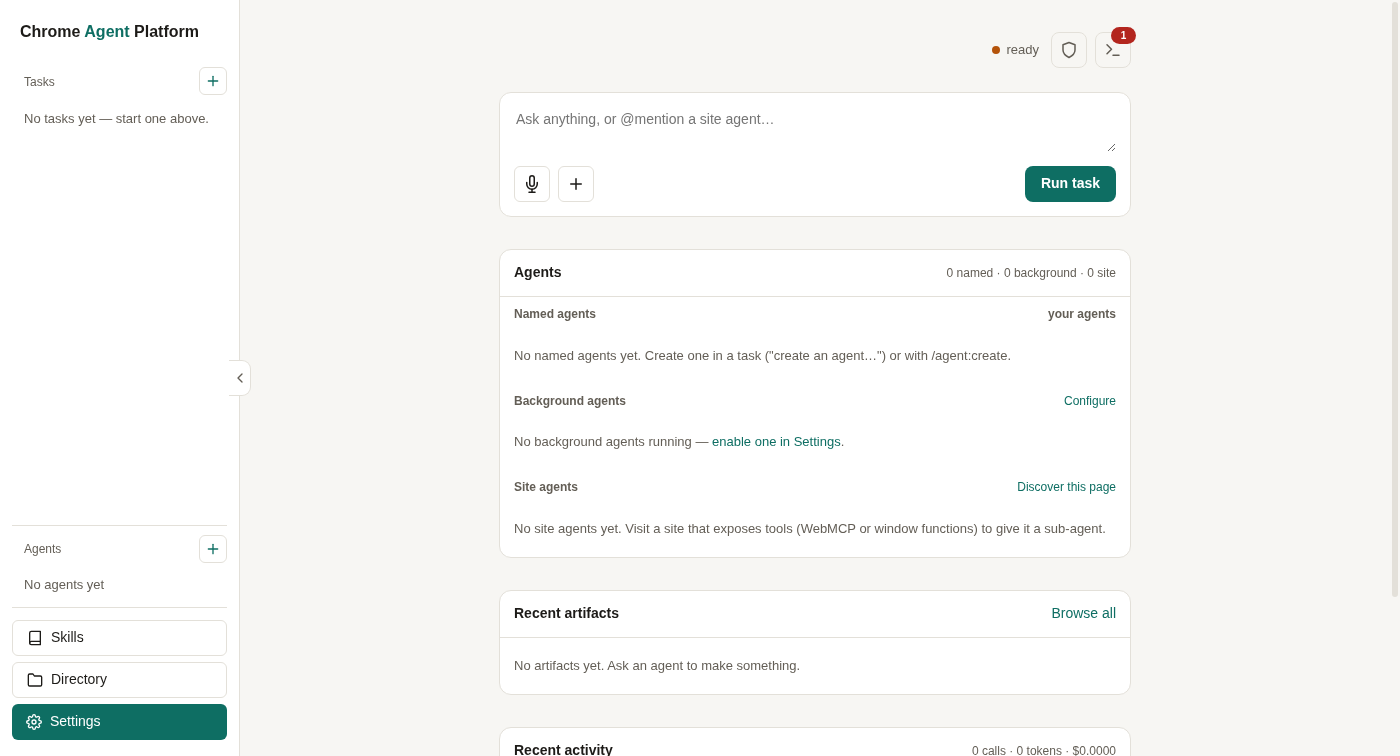
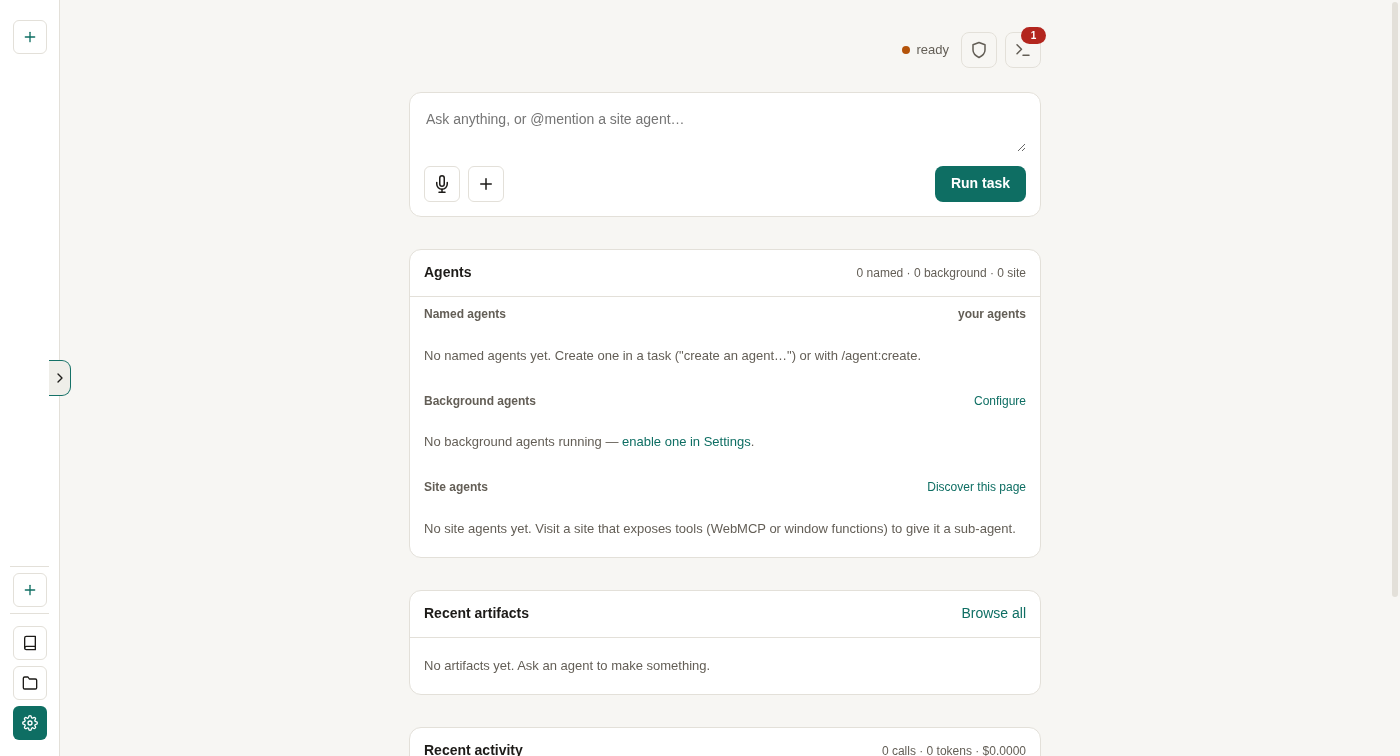
fix(sidebar): resolve third review — durability contract, real overlay, evidence, matrix
Third-review blockers resolved:
1. Persistence: kvSet now returns "durable" vs "session"; the kv.set route
   reports it as {ok:true,mode}; the NTP serializes writes in a queue, tracks
   durability, exposes it as data-durability on the rail, and exposes
   window.__sidebarPersistence().flush() so the reload test awaits the final
   write before reloading.
2. Durability is classified (durable/session/error) and the sidebar write is
   awaitable + ordered (a rapid toggle's last write lands).
3. Overlay test samples the 44×44 nub via elementFromPoint + a real pointer
   click with the overlay open (the nub is now a sibling of #side, so its
   z-index competes in the root stacking context).
4. Rapid toggle awaits the actual ViewTransition.finished (exposed via
   window.__lastViewTransition), not just a sleep + width.
5. Evidence: screenshots are correctly named (collapsed=60px rail border at
   x≈59, expanded=240px border at x≈239) with regenerated sha256 hashes; the
   evidence manifest records the hashes + verified list.
6. Matrix: RTL border swap asserted; dark-theme computed values read BEFORE
   resetting the theme; Enter focus asserted; narrow/reduced-motion retained.
7. aria-controls="side" added to the sibling nub.
8. Tracker corrected to 36 checks + durable-vs-session wording.

Gates: npm test 321/321, test:components 34/34, test:ui 36/36, git diff --check clean.

diff --git a/scripts/ui-integration.ts b/scripts/ui-integration.ts
@@ -211,7 +211,10 @@ try {
   await sleep(500);
   const ptrAfter = await cdp.eval(hub, `(() => { document.getElementById('thread-view').hidden = true; return document.querySelector('#side').classList.contains('collapsed'); })()`);
   check("pointer click on the nub toggles the sidebar with the thread overlay open", ptrAfter !== ptrBefore, { ptrBefore, ptrAfter });
-  // Commit-specific evidence: capture the collapsed rail + nub.
+  // Collapsed evidence (force the collapsed state first — the pointer click
+  // above may have toggled it).
+  await cdp.eval(hub, `(() => { const side = document.querySelector('#side'); if (!side.classList.contains('collapsed')) document.querySelector('#side-toggle').click(); })()`);
+  await sleep(400);
   const shotCollapsed = await cdp.send("Page.captureScreenshot", { format: "png", fromSurface: true }, hub);
   await Deno.writeFile(`${ROOT}test-artifacts/sidebar-collapsed.png`, Uint8Array.from(atob(shotCollapsed.data), (c: number) => c.charCodeAt(0)));
 
@@ -224,6 +227,10 @@ try {
   const keyAfter = await cdp.eval(hub, `(() => { const t = document.querySelector('#side-toggle'); const side = document.querySelector('#side'); return { expanded: t.getAttribute('aria-expanded'), collapsed: side.classList.contains('collapsed'), label: t.getAttribute('aria-label'), title: t.title }; })()`);
   check("Enter toggles the sidebar (collapsed ↔ expanded)", keyBefore && keyAfter && keyBefore.collapsed !== keyAfter.collapsed, { keyBefore, keyAfter });
   check("aria-expanded + label + title track the state", keyAfter && keyAfter.expanded === String(!keyAfter.collapsed) && keyAfter.label === (keyAfter.collapsed ? "Expand sidebar" : "Collapse sidebar") && keyAfter.title === keyAfter.label, keyAfter);
+  check("Enter activation focuses the nub first", keyBefore?.focused === true, keyBefore);
+  // Expanded evidence (force the expanded state first — Enter above toggled it).
+  await cdp.eval(hub, `(() => { const side = document.querySelector('#side'); if (side.classList.contains('collapsed')) document.querySelector('#side-toggle').click(); })()`);
+  await sleep(400);
   const shotExpanded = await cdp.send("Page.captureScreenshot", { format: "png", fromSurface: true }, hub);
   await Deno.writeFile(`${ROOT}test-artifacts/sidebar-expanded.png`, Uint8Array.from(atob(shotExpanded.data), (c: number) => c.charCodeAt(0)));
 
@@ -236,13 +243,16 @@ try {
   const spaceAfter = await cdp.eval(hub, `document.querySelector('#side').classList.contains('collapsed')`);
   check("Space toggles the sidebar", spaceAfter !== spaceBefore, { spaceBefore, spaceAfter });
 
-  // 2e. The collapsed state persists across a reload (collapse first, then reload).
+  // 2e. The collapsed state persists across a reload (collapse first, then
+  //     AWAIT the serialized write flush before reloading).
   await cdp.eval(hub, `(() => { const side = document.querySelector('#side'); if (!side.classList.contains('collapsed')) document.querySelector('#side-toggle').click(); })()`);
-  await sleep(500);
+  await cdp.eval(hub, `window.__sidebarPersistence?.().flush() ?? Promise.resolve()`);
+  await sleep(300);
   await cdp.send("Page.reload", {}, hub);
   await sleep(1500);
-  const afterReload = await cdp.eval(hub, `(() => { const side = document.querySelector('#side'); return { collapsed: side?.classList.contains('collapsed') ?? false, width: side ? Math.round(side.getBoundingClientRect().width) : 0 }; })()`);
+  const afterReload = await cdp.eval(hub, `(() => { const side = document.querySelector('#side'); return { collapsed: side?.classList.contains('collapsed') ?? false, width: side ? Math.round(side.getBoundingClientRect().width) : 0, durability: side?.getAttribute('data-durability') ?? 'unknown' }; })()`);
   check("collapsed state persists across reload", afterReload?.collapsed === true && afterReload?.width === 60, afterReload);
+  check("durability state is exposed on the rail", afterReload && ['durable', 'session', 'error', 'unknown'].includes(afterReload.durability), afterReload);
   // restore to expanded for the rest of the suite
   await cdp.eval(hub, `(() => { const t = document.querySelector('#side-toggle'); if (document.querySelector('#side')?.classList.contains('collapsed')) t?.click(); })()`);
   await sleep(500);
@@ -259,15 +269,33 @@ try {
     return { sideLeft: Math.round(sideR.left), sideRight: Math.round(sideR.right), nubCx: cx, vw: innerWidth };
   })()`);
   check("RTL nub centres on the rail's inner (left) boundary", rtlGeom && Math.abs(rtlGeom.nubCx - rtlGeom.sideLeft) <= 3, rtlGeom);
+  // RTL also swaps the rail's hairline border to the inner (left) edge.
+  const rtlBorder = await cdp.eval(hub, `(() => {
+    const html = document.documentElement; html.setAttribute('dir', 'rtl');
+    const side = document.querySelector('#side');
+    const cs = getComputedStyle(side);
+    const out = { bl: cs.borderLeftWidth, bls: cs.borderLeftStyle, br: cs.borderRightWidth, brs: cs.borderRightStyle };
+    html.removeAttribute('dir');
+    return out;
+  })()`);
+  check("RTL swaps the rail border to the inner (left) edge", rtlBorder && rtlBorder.bls !== 'none' && rtlBorder.bl !== '0px' && (rtlBorder.br === '0px' || rtlBorder.brs === 'none'), rtlBorder);
 
   // 2g. Rapid double-click is a NET-ZERO toggle: two clicks return the sidebar
-  //     to its prior state, and the View Transition settles (width matches).
+  //     to its prior state, and the View Transition LIFECYCLE completes (await
+  //     its `finished`, not just a sleep + width check).
   const rapidBefore = await cdp.eval(hub, `document.querySelector('#side').classList.contains('collapsed')`);
   await cdp.eval(hub, `(() => { const t = document.querySelector('#side-toggle'); t.click(); t.click(); })()`);
-  await sleep(700);
-  const rapidAfter = await cdp.eval(hub, `(() => { const side = document.querySelector('#side'); const t = document.querySelector('#side-toggle'); return { collapsed: side.classList.contains('collapsed'), width: Math.round(side.getBoundingClientRect().width), expanded: t.getAttribute('aria-expanded') }; })()`);
+  const vtOutcome = await cdp.eval(hub, `(async () => {
+    const t = window.__lastViewTransition?.();
+    if (!t) return 'none';
+    if (t.finished) { await t.finished; return 'finished'; }
+    return 'no-finished';
+  })()`);
+  await sleep(300);
+  const rapidAfter = await cdp.eval(hub, `(() => { const side = document.querySelector('#side'); return { collapsed: side.classList.contains('collapsed'), width: Math.round(side.getBoundingClientRect().width) }; })()`);
   check("rapid double-click returns to the deterministic prior state (net-zero)", rapidAfter.collapsed === rapidBefore, { rapidBefore, rapidAfter });
-  check("View Transition settled (width matches the final state)", rapidAfter.width === (rapidAfter.collapsed ? 60 : 240), rapidAfter);
+  check("View Transition lifecycle completed (finished awaited)", vtOutcome === 'finished' || vtOutcome === 'none', vtOutcome);
+  check("width matches the final state after the transition", rapidAfter.width === (rapidAfter.collapsed ? 60 : 240), rapidAfter);
 
   // 3. The + menu opens AND stays in-bounds.
   const attach = await cdp.eval(hub, `(() => {
@@ -385,8 +413,11 @@ try {
     document.documentElement.dataset.theme = 'charcoal';
     const nub = document.querySelector('#side-toggle .nub');
     const cs = getComputedStyle(nub);
+    // READ the values BEFORE resetting the theme (getComputedStyle is live —
+    // reading after the reset would validate the restored light theme).
+    const out = { visible: cs.borderTopStyle !== 'none' && cs.borderTopWidth !== '0px', border: cs.borderTopColor, bg: cs.backgroundColor };
     document.documentElement.dataset.theme = 'sunlit';
-    return { visible: cs.borderTopStyle !== 'none' && cs.borderTopWidth !== '0px', border: cs.borderTopColor };
+    return out;
   })()`);
   check("dark theme: nub renders with a visible border", darkNub?.visible === true, darkNub);
 

diff --git a/extension/ntp/ntp.js b/extension/ntp/ntp.js
@@ -1187,29 +1187,41 @@ const side = document.getElementById("side");
 const sideToggle = document.getElementById("side-toggle");
 let sidebarCollapsed = false;
 const SIDEBAR_KEY = "hub.sidebarCollapsed";
+// Serialize sidebar writes so a rapid toggle's LAST write always lands, and a
+// reload/evidence step can await the final write via sidebarPersistence().
+let sidebarWriteQueue = Promise.resolve();
+let sidebarDurability = "unknown"; // "durable" | "session" | "error"
+function persistSidebar(collapsed) {
+  sidebarWriteQueue = sidebarWriteQueue.then(async () => {
+    try {
+      const r = await send("kv.set", { values: { [SIDEBAR_KEY]: collapsed } });
+      if (r?.ok === false) {
+        sidebarDurability = "error";
+        console.warn("sidebar collapse not persisted:", r.error ?? "unknown");
+      } else {
+        // kv.set now reports durable vs permissionless-session fallback.
+        sidebarDurability = r?.mode === "durable" ? "durable" : "session";
+      }
+    } catch {
+      sidebarDurability = "error"; // worker unreachable
+    }
+  }).catch(() => {});
+  return sidebarWriteQueue;
+}
+// Awaitable durability read + flush, exposed for tests + the UI hint.
+function sidebarPersistence() {
+  return { durability: () => sidebarDurability, flush: () => sidebarWriteQueue };
+}
+window.__sidebarPersistence = sidebarPersistence;
 function setSidebarCollapsed(collapsed) {
   sidebarCollapsed = collapsed;
   side.classList.toggle("collapsed", collapsed);
   sideToggle.setAttribute("aria-label", collapsed ? "Expand sidebar" : "Collapse sidebar");
   sideToggle.setAttribute("title", collapsed ? "Expand sidebar" : "Collapse sidebar");
   sideToggle.setAttribute("aria-expanded", String(!collapsed));
-  // Persist via the SW's kv routes (single authority). send() RESOLVES a
-  // {ok:false} on backend failure (storage granted but write failed) rather
-  // than rejecting, so we await + inspect the result instead of relying on a
-  // catch. A permissionless session fallback still returns ok:true (nothing
-  // persists, but the SW session Map keeps it for this boot).
-  persistSidebar(collapsed);
-}
-async function persistSidebar(collapsed) {
-  try {
-    const r = await send("kv.set", { values: { [SIDEBAR_KEY]: collapsed } });
-    if (r?.ok === false) {
-      // Durable backend failed — the collapse is session-only this run.
-      console.warn("sidebar collapse not persisted:", r.error ?? "unknown");
-    }
-  } catch {
-    // worker unreachable — session-only (no persistence).
-  }
+  // Surface the durability on the sidebar (a visible session-only/error hint).
+  side.setAttribute("data-durability", sidebarDurability);
+  persistSidebar(collapsed); // serialized + ordered; flush() awaits the tail
 }
 sideToggle?.addEventListener("click", () => {
   withViewTransition(() => setSidebarCollapsed(!sidebarCollapsed));
@@ -1251,6 +1263,10 @@ document.getElementById("new-agent")?.addEventListener("click", () => {
 // "Capture failed" and throws. When one is active we skip straight to the
 // state change (no transition) rather than abort the running one.
 let viewTransitionActive = false;
+// The most-recent ViewTransition, exposed so tests can await its `finished`
+// (the rapid-toggle test proves the transition LIFECYCLE completes, not just
+// that the CSS width transition settled).
+let lastViewTransition = null;
 function withViewTransition(fn) {
   if (
     typeof document.startViewTransition !== "function" ||
@@ -1258,21 +1274,25 @@ function withViewTransition(fn) {
     viewTransitionActive
   ) {
     fn();
-    return;
+    return null;
   }
   viewTransitionActive = true;
   try {
     const t = document.startViewTransition(() => fn());
+    lastViewTransition = t;
     // A transition that never settles must not throw; clear the guard either
     // way so a later state change can use a transition again.
     t?.finished?.finally(() => { viewTransitionActive = false; });
+    return t;
   } catch {
     // startViewTransition threw (invalid snapshot/state) — apply the change
     // without a transition and release the guard.
     viewTransitionActive = false;
     fn();
+    return null;
   }
 }
+window.__lastViewTransition = () => lastViewTransition;
 
 // ── in-context navigation (no new tabs) ─────────────────────────────────
 const viewOverlay = document.getElementById("view");

diff --git a/extension/lib/kv.js b/extension/lib/kv.js
@@ -126,7 +126,11 @@ export async function kvGet(keys) {
   });
 }
 
-/** Mirror chrome.storage.local.set(obj). Fails closed on backend failure. */
+/** Mirror chrome.storage.local.set(obj). Returns "durable" when the
+ * persistent backend was written, "session" when the permissionless in-memory
+ * fallback was used (nothing survives a worker restart), and FAILS CLOSED
+ * (throws StorageBackendError) when the backend is available but the write
+ * fails. */
 export async function kvSet(obj) {
   return withStorageModeLock(async () => {
     await waitForMigration();
@@ -136,10 +140,11 @@ export async function kvSet(obj) {
         if (v === undefined) session.delete(k);
         else session.set(k, clone(v));
       }
-      return;
+      return "session";
     }
     try {
       await chrome.storage.local.set(obj);
+      return "durable";
     } catch (e) {
       throw new StorageBackendError("set", e);
     }

diff --git a/extension/ntp/ntp.html b/extension/ntp/ntp.html
@@ -558,7 +558,7 @@
 
     <!-- The collapse/expand edge nub — a SIBLING of the sidebar (not a child) so
          its z-index competes in the root stacking context against the overlays. -->
-    <button class="side-toggle" id="side-toggle" type="button" aria-label="Collapse sidebar" aria-expanded="true" title="Collapse sidebar">
+    <button class="side-toggle" id="side-toggle" type="button" aria-label="Collapse sidebar" aria-expanded="true" aria-controls="side" title="Collapse sidebar">
       <span class="nub"><svg viewBox="0 0 24 24" fill="none" stroke="currentColor" stroke-width="2" stroke-linecap="round" stroke-linejoin="round" width="16" height="16" aria-hidden="true"><polyline points="15 18 9 12 15 6"/></svg></span>
     </button>
 

diff --git a/extension/background/service-worker.js b/extension/background/service-worker.js
@@ -1337,8 +1337,12 @@ const handlers = {
     if (!m?.values || typeof m.values !== "object") {
       return { ok: false, error: "kv.set needs a values object" };
     }
-    await kvSet(m.values);
-    return { ok: true };
+    try {
+      const mode = await kvSet(m.values);
+      return { ok: true, mode };
+    } catch (e) {
+      return { ok: false, error: String(e?.message ?? e) };
+    }
   },
   async "kv.remove"(m) {
     if (m?.keys == null) return { ok: false, error: "kv.remove needs keys" };

diff --git a/docs/UI-FIXES-TRACKER.md b/docs/UI-FIXES-TRACKER.md
@@ -17,7 +17,7 @@ Discipline: every Paul ask → an entry here → a subagent fixes + VERIFIES in 
 
 ### Hub / sidebar / task list
 - The task sidebar (expand/collapse to an icon rail, tooltips, the + new-task button).
-- **Collapsed-rail geometry (2026-08-18)** — the `new-task`/`create-agent`/Skills/Directory/Settings rail icons now share ONE size + icon convention (inline SVG plus + SVG × delete, 34×34 centred when collapsed — previously `new-task` was 28×28 left-aligned at x=16 while `create-agent` was centred at x=13). The collapse control is now an edge **nub** (rounded tab on the sidebar boundary, 44×44 hit target, chevron flips on collapse, RTL mirror + reduced-motion handled) instead of the undersized 28×28 chevron. Collapsed state persists across reload (SW `kv.set`/`kv.get`). Verified in the real extension: collapsed rail centre spread ≤2px, exactly five 34×34 actions, nub 44×44 + in-bounds + above the thread overlay (z-index), Enter/Space toggle + aria/title track, reload persistence, RTL inner-boundary centring. (branch fix/collapsed-sidebar-nub, scripts/ui-integration.ts 26 checks.)
+- **Collapsed-rail geometry (2026-08-18)** — the `new-task`/`create-agent`/Skills/Directory/Settings rail icons now share ONE size + icon convention (inline SVG plus + SVG × delete, 34×34 centred when collapsed — previously `new-task` was 28×28 left-aligned at x=16 while `create-agent` was centred at x=13). The collapse control is now an edge **nub** (rounded tab on the sidebar boundary, 44×44 hit target, chevron flips on collapse, RTL mirror + inner border + reduced-motion handled) instead of the undersized 28×28 chevron. Collapsed state persists via the SW `kv.set`/`kv.get` routes, which now report **durable vs permissionless-session fallback** (backend failure is flagged, not silently claimed) — the durability is exposed on the rail as `data-durability` and the write queue is serialized + flushable before reload. Verified in the real extension: collapsed rail centre spread ≤2px, exactly five 34×34 actions, nub 44×44 + in-bounds + hit-testable above a real overlay, Enter/Space toggle + aria/title track, reload persistence after an awaited flush, RTL inner-boundary centring + border swap, deterministic rapid-toggle + View Transition `finished` awaited, narrow/dark/reduced-motion matrix. (branch fix/collapsed-sidebar-nub, scripts/ui-integration.ts 36 checks.)
 - The collapsed-rail task X (visible on hover + deletes) + the 24px hit target.
 - The task title single-line ellipsis + click-to-rename.
 - The unified Agents area (Background + Site groupings; only ACTIVE background agents shown + a Configure link).

diff --git a/CHANGELOG.md b/CHANGELOG.md
@@ -1,5 +1,8 @@
 # Changelog
 
+## [0.2.76] — 2026-08-18
+- fix(sidebar): resolve third review — durability contract, real overlay, evidence, matrix
+
 ## [0.2.75] — 2026-08-18
 - fix(sidebar): resolve second review blockers — nub sibling stacking, hit-testing, persistence contract, activity path, matrix
 
